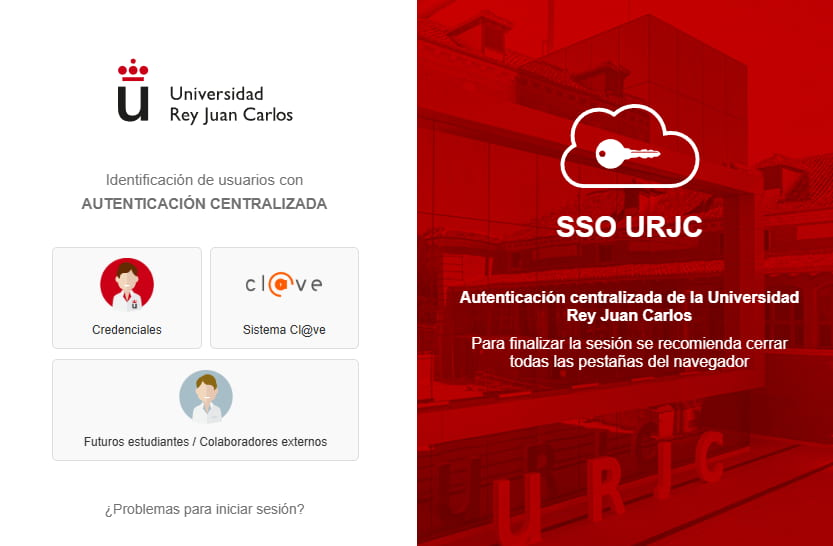
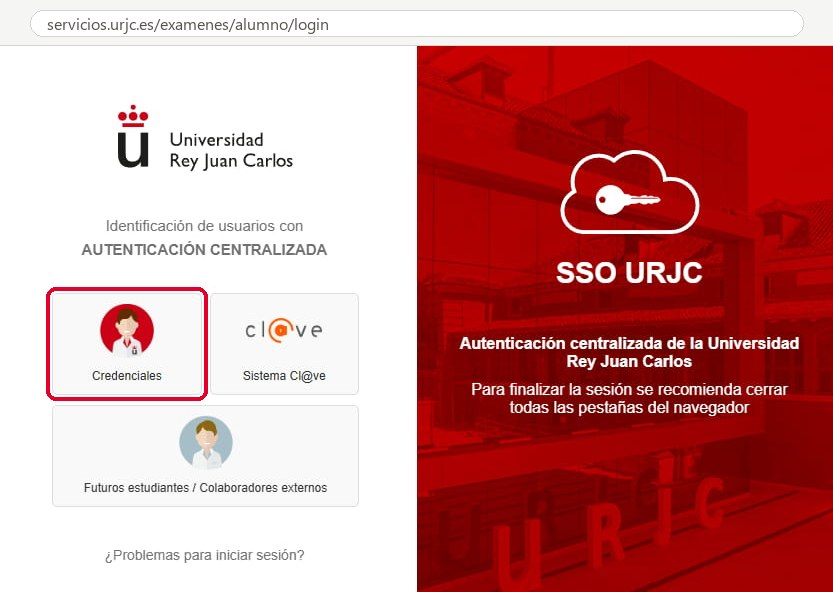
Se mejoran las capturas de la web de la URJC de la guía de uso
- Más nítidas, con la dirección de la página y el botón que hay que pulsar marcado

diff --git a/src/components/UseGuide.tsx b/src/components/UseGuide.tsx
@@ -32,8 +32,8 @@ export default function UseGuide() {
                     </div>
                 </div>
                 <div className="min-w-full lg:min-w-1/3 gap-8 flex flex-col justify-center">
-                    <img src={fotoguia02} width={833} height={546} decoding="async" alt="Inicio de sesión único (SSO) de la URJC con las opciones Credenciales y Sistema Cl@ve" className="rounded-md border border-borde w-full h-auto object-contain" />
-                    <img src={fotoguia01} width={340} height={182} loading="lazy" decoding="async" alt="Apartado Exámenes de la web de la URJC con los botones Descargar en PDF y Descargar en Excel" className="rounded-md border border-borde w-full h-auto object-contain" />
+                    <img src={fotoguia02} width={833} height={592} decoding="async" alt="Inicio de sesión único (SSO) de la URJC con la opción Credenciales marcada, junto a Sistema Cl@ve" className="rounded-md border border-borde w-full h-auto object-contain" />
+                    <img src={fotoguia01} width={680} height={401} loading="lazy" decoding="async" alt="Apartado Exámenes de la web de la URJC con el botón Descargar en Excel marcado, junto a Descargar en PDF" className="rounded-md border border-borde w-full h-auto object-contain" />
                 </div>
             </article>
             <article className="p-6 gap-10 w-full max-w-300 h-fit flex flex-col-reverse lg:flex-row">

diff --git a/ROADMAP.md b/ROADMAP.md
@@ -157,7 +157,7 @@ Lo bueno: un solo color de marca, CTAs rectos y directos, tarjeta de examen clar
 - [x] **F6.7** Accesibilidad: zonas táctiles ≥ 44 px (footer, «Volver al inicio», navegación), `focus-visible` con anillo `primary` en todos los controles, `label` (visible o `sr-only`) en los `<select>`, `aria-current="page"` en la navegación, `prefers-reduced-motion`. Hecho: anillo `primary` global en `:focus-visible` (también en la zona de subida vía `peer`), `label` `sr-only` en los dos `<select>` (con `useId`), `aria-label` «Mes anterior/siguiente» y 44×44 en los botones de mes, ≥ 44 px en footer, «Volver al inicio», iconos del `Header`, enlaces de la 404 y botón «Importar» (ahora uno solo responsive), `h2` de Características `sr-only` en móvil (orden de títulos), enlaces dentro de párrafos subrayados y transiciones a 0 s con `prefers-reduced-motion`. `aria-current="page"` ya lo pone `NavLink`. El botón «Hoy» del calendario va en F6.9.
 - [x] **F6.8** Copy: tildes que faltan («exámenes», «aquí», «Ahórrate», «Olvídate», «céntrate», «asegúrate»), mayúsculas coherentes en botones y textos de ayuda en el mismo tono. Hecho: tildes en portada, Características, Importar, guía, lista móvil y «Mié» de la rejilla; mayúsculas de frase en títulos y botones («Próximos exámenes», «Mis exámenes», «Importar calendario de exámenes»); «Ya tienes» (tú); fuera el prefijo «ERROR:»; comillas «» en la guía; `aria-label` de los iconos del `Header` en español. El título de la hoja del Excel exportado («Examenes») se deja igual que el original de la URJC.
 - [x] **F6.9 Legibilidad del calendario (rediseño global)**: pedido por el usuario el 2026-11-19. Revisar el diseño de todo lo que muestra exámenes para que se lea de un vistazo, como un único sistema y no tres piezas sueltas. Empezar con `impeccable critique` del calendario de escritorio, la lista móvil, `NextExams` y el mockup de la portada, en claro y oscuro, y **proponer la dirección al usuario antes de implementar**. Cubrir: jerarquía de la tarjeta (asignatura > fecha y hora > aula > plan), tamaños mínimos (12 px en la rejilla, 14 px en las listas), nada de mayúsculas forzadas ni `truncate` que corte el nombre de la asignatura sin forma de verlo entero, celdas con varios exámenes sin scroll interno (resumen tipo «+2 más» o detalle al pulsar), contraste AA de `tertiary` y `primary` sobre las superficies, fecha y hora en formato humano y unificar las variantes de `ExamCard` (`full`/`list`/`compact`, ver F2.5). Engloba F6.2 y F6.3: se hacen dentro de esta tarea y se marcan juntas. dep: F5.2, F6.1 Hecho el 2026-11-19 con la dirección que eligió el usuario entre dos propuestas: **rejilla de líneas + detalle al pulsar** (en vez de rejilla con panel lateral) y **tarjeta con bloque de fecha** (en vez de mantener la actual unificada). Crítica en una sola pasada (sin subagentes). `ExamCard` queda en dos variantes, `card` y `line`; helpers de formato en `examen.ts` con tests. El nombre pasa a tipo frase (las tildes que no trae el Excel siguen sin estar: «Calculo»). Los filtros llevan etiqueta visible y opciones cortas. Queda para F6.4 el `zoom: 0.75` del mockup de la portada, que vuelve a dejar el texto a 9 px.
-- [ ] **F6.10 Capturas nuevas**: pedido por el usuario el 2026-11-19. Rehacer `public/og-image.png` (1200×630, calendario real con `public/Examenes.xlsx`, tema claro) y las capturas de la guía de uso de la app (`src/assets/fotoguia03`, página Importar) con la paleta de F5.8 y el diseño final de F6; revisar si `fotoguia01`/`fotoguia02` (web de la URJC) siguen al día. Actualizar `og:image:alt` en `root.tsx` y los `alt` de `UseGuide` si cambia lo que se ve. Pedir al usuario las capturas de la web de la URJC (necesitan su sesión). dep: F6.9 **En curso** (2026-11-19): rehechas `public/og-image.png` (1200×630, mayo de 2026 con `public/Examenes.xlsx`, tema claro, renderizada a 1600×840 y reducida) y `src/assets/fotoguia03.png` (968×695, Importar con `Examenes.xlsx` elegido y sin datos previos), con Playwright y sin el botón flotante de tema; capturas de la guía con `width`/`height` y `loading="lazy"` salvo la primera. El `og:image:alt` y los `alt` siguen describiendo lo que se ve. Falta: capturas de la web de la URJC (`fotoguia01`/`02`), que necesitan la sesión del usuario.
+- [x] **F6.10 Capturas nuevas**: pedido por el usuario el 2026-11-19. Rehacer `public/og-image.png` (1200×630, calendario real con `public/Examenes.xlsx`, tema claro) y las capturas de la guía de uso de la app (`src/assets/fotoguia03`, página Importar) con la paleta de F5.8 y el diseño final de F6; revisar si `fotoguia01`/`fotoguia02` (web de la URJC) siguen al día. Actualizar `og:image:alt` en `root.tsx` y los `alt` de `UseGuide` si cambia lo que se ve. Pedir al usuario las capturas de la web de la URJC (necesitan su sesión). dep: F6.9 Hecho (2026-11-19): rehechas `public/og-image.png` (1200×630, mayo de 2026 con `public/Examenes.xlsx`, tema claro, renderizada a 1600×840 y reducida) y `src/assets/fotoguia03.png` (968×695, Importar con `Examenes.xlsx` elegido y sin datos previos), con Playwright y sin el botón flotante de tema; capturas de la guía con `width`/`height` y `loading="lazy"` salvo la primera. El `og:image:alt` y los `alt` siguen describiendo lo que se ve. Las de la web de la URJC (`fotoguia01`/`02`) siguen valiendo (decidido por el usuario) y se mejoran sin volver a capturarlas: `fotoguia01` ampliada al doble (Lanczos + enfoque suave), las dos con una barra de dirección discreta con la URL que enlaza la guía y un anillo rojo URJC en lo que hay que pulsar («Descargar en Excel», «Credenciales»); `alt` actualizados. Originales guardadas fuera del repo (en el historial de git también están).
 - [x] **F6.11 Botones y contenedores con una sola receta** (de F6.1): hoy hay cinco radios (`rounded-none` en CTAs, `rounded` en Importar y el diálogo, `rounded-lg` en la 404, `rounded-xl`/`2xl` en los botones de mes) y alturas de 40 a 84 px. Fijar en `DESIGN.md` primario, secundario y botón de texto (radio, alto mínimo 44 px, padding) y aplicarlos en todo el sitio; avisos de Importar sin tarjeta dentro de tarjeta; `main` del dashboard con `overflow-y-auto` en vez de `scroll`. Terminar con `impeccable polish`. dep: F6.9 Hecho: receta única en `DESIGN.md` (primario, secundario, neutro y de texto; esquinas rectas, `min-h-11`, `font-medium`) aplicada a portada, dashboard, exportar, estados vacíos, Importar, diálogo de borrar, aviso de versión nueva, calendario y 404 (el botón de la 404 pierde `rounded-lg`, sombra y `py-7`); avisos de Importar como filas con separador en vez de cajas dentro del formulario; `main` con `overflow-y-auto`. Repaso final con la guía de `impeccable polish`: fuera también los cuadros de icono rojos y el `border-2` de la guía de uso y la sombra fuerte de la imagen de la 404.
 
 ## F7 · Documentación
